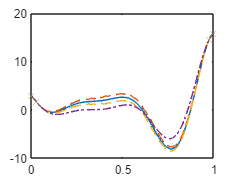
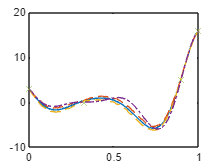
updated markdown files

diff --git a/MatlabGP/docs/TestVGPClass.md b/MatlabGP/docs/TestVGPClass.md
@@ -18,13 +18,14 @@ x1 = lhsdesign(500,1);
 y1 = f1(x1);
 y1 = y1 + normrnd(0,0*y1 + 0.8);
 
-a = Matern52(1,0.2)*EQ(1,0.4).periodic(1,2) + RQ(0.1,0.3);
+ma = means.const(2)+means.linear(6);
+a = kernels.Matern52(1,0.2)*kernels.EQ(1,0.4).periodic(1,2) + kernels.RQ(0.1,0.3);
 ```
 
 ```matlab:Code
 a.signn = 0.5;
 
-Z = VGP([],a,lhsdesign(8,1));
+Z = VGP(ma,a,lhsdesign(15,1));
 ```
 
 ```matlab:Code
@@ -32,12 +33,11 @@ Z1 = Z.condition(x1,y1);
 
 [ys,sig] = Z1.eval(xx);
 
-figure(2)
-clf(2)
-plot(xx,ys)
+figure
 hold on
-% plot(xx,ys+2*sqrt(sig),'--')
-% plot(xx,ys-2*sqrt(sig),'--')
+plot(xx,ys)
+plot(xx,ys+2*sqrt(sig),'--')
+plot(xx,ys-2*sqrt(sig),'--')
 plot(xx,yy,'-.')
 plot(x1,y1,'+')
 ```
@@ -46,27 +46,27 @@ plot(x1,y1,'+')
 
 ```matlab:Code
 tic
-[Z2,LL] = Z1.train(1);
+[Z2,LL] = Z1.train();
 ```
 
 ```text:Output
-Variables (index) internally transformed to log coordinates: [1 2 3 4].
+Variables (index) internally transformed to log coordinates: [3 4 5].
 Beginning optimization of a STOCHASTIC objective fcn.
 
 Optimization terminated: mesh size less than OPTIONS.TolMesh.
-Estimated function value at minimum: 24.6392 +/- 0.605676 (mean +/- SEM from 10 samples).
+Estimated function value at minimum: 25.8595 +/- 0.415588 (mean +/- SEM from 10 samples).
 
-Variables (index) internally transformed to log coordinates: [1 2 3 4].
+Variables (index) internally transformed to log coordinates: [3 4 5].
 Beginning optimization of a STOCHASTIC objective fcn.
 
 Optimization terminated: mesh size less than OPTIONS.TolMesh.
-Estimated function value at minimum: 26.4603 +/- 0.481208 (mean +/- SEM from 10 samples).
+Estimated function value at minimum: 28.8236 +/- 0.988327 (mean +/- SEM from 10 samples).
 
-Variables (index) internally transformed to log coordinates: [1 2 3 4].
+Variables (index) internally transformed to log coordinates: [3 4 5].
 Beginning optimization of a STOCHASTIC objective fcn.
 
 Optimization terminated: mesh size less than OPTIONS.TolMesh.
-Estimated function value at minimum: 27.7985 +/- 1.43034 (mean +/- SEM from 10 samples).
+Estimated function value at minimum: 27.6798 +/- 0.907458 (mean +/- SEM from 10 samples).
 ```
 
 ```matlab:Code
@@ -74,14 +74,13 @@ toc
 ```
 
 ```text:Output
-Elapsed time is 23.725120 seconds.
+Elapsed time is 47.344382 seconds.
 ```
 
 ```matlab:Code
 [ys,sig] = Z2.eval(xx);
 
-figure(3)
-clf(3)
+figure
 plot(xx,ys)
 hold on
 plot(xx,ys+2*sqrt(sig),'--')
@@ -91,18 +90,3 @@ plot(x1,y1,'+')
 ```
 
 ![figure_1.png](TestVGPClass_images/figure_1.png)
-
-```matlab:Code
-figure(4)
-hold on
-for i = 1:30
-    ysamp = Z1.samplePosterior(xx);
-    plot(xx,ysamp,'LineWidth',0.05,'Color','k')
-end
-
-plot(xx,ys)
-plot(xx,ys+2*sqrt(sig),'--')
-plot(xx,ys-2*sqrt(sig),'--')
-```
-
-![figure_2.png](TestVGPClass_images/figure_2.png)

diff --git a/MatlabGP/docs/TestMFGPClass.md b/MatlabGP/docs/TestMFGPClass.md
@@ -19,24 +19,26 @@ x{1} = [0; lhsdesign(2,1);1];
 y{1} = ff{1}(x{1});
 
 for i = 2:3
-x{i} = [x{i-1}; lhsdesign(8,1)];
+x{i} = [x{i-1}; lhsdesign(5,1)];
 y{i} = ff{i}(x{i});
 end
 
-a = Matern52(1,0.2)+RQ(0.1,0.5);
-b = EQ(1,0.3);
+ma = means.linear(4) + means.const(1);
+
+a = kernels.Matern52(1,0.2)+kernels.RQ(0.1,0.5);
+b = kernels.EQ(1,0.3);
 ```
 
 ```matlab:Code
 for i = 1:3
-    Z{i} = GP([],a);
+    Z{i} = GP(ma,a);
     Z{i} = Z{i}|[x{i} y{i}];
     Z{i} = Z{i}.train;
 end
 ```
 
 ```matlab:Code
-MF = MFGP(Z,[],b);
+MF = MFGP(Z,ma,b);
 ```
 
 ```matlab:Code
@@ -68,3 +70,38 @@ plot(x{1},y{1},'x')
 ```
 
 ![figure_1.png](TestMFGPClass_images/figure_1.png)
+
+```matlab:Code
+
+```
+
+```matlab:Code
+ym2 = MF.Zd{2}.mean.eval(xx);
+ym3 = MF.Zd{3}.mean.eval(xx);
+
+figure
+plot(xx,ym2)
+hold on
+plot(xx,ym3)
+```
+
+![figure_2.png](TestMFGPClass_images/figure_2.png)
+
+```matlab:Code
+
+ym1 = MF.GPs{1}.mean.eval(xx);
+ym2 = MF.GPs{2}.mean.eval(xx);
+ym3 = MF.GPs{3}.mean.eval(xx);
+
+figure
+plot(xx,ym1)
+hold on
+plot(xx,ym2)
+plot(xx,ym3)
+```
+
+![figure_3.png](TestMFGPClass_images/figure_3.png)
+
+```matlab:Code
+
+```

diff --git a/MatlabGP/docs/TestMeanClass.md b/MatlabGP/docs/TestMeanClass.md
@@ -1,0 +1,44 @@
+The mean super class allows addition subtraction multiplication and division.
+
+```matlab:Code
+clear all
+close all
+clc
+
+xx = lhsdesign(100,2);
+
+a = means.const(3);
+
+b = means.linear([1 2]);
+
+c = means.linear([-0.1 3]);
+
+d = (c+a)*b*c;
+
+K = d.eval(xx);
+
+figure(1)
+clf(1)
+plot3(xx(:,1),xx(:,2),K,'.')
+```
+
+![figure_0.png](TestMeanClass_images/figure_0.png)
+
+```matlab:Code
+
+```
+
+```matlab:Code
+V = d.getHPs()
+```
+
+```text:Output
+V = 1x7    
+   -0.1000    3.0000    3.0000    1.0000    2.0000   -0.1000    3.0000
+
+```
+
+```matlab:Code
+
+d = d.setHPs(V+1);
+```

diff --git a/MatlabGP/docs/TestGPClass.md b/MatlabGP/docs/TestGPClass.md
@@ -28,14 +28,17 @@ yy = f1(xx);
 
 x1 = [0; 1*lhsdesign(8,1);1];
 y1 = f1(x1);
-
-a = (Matern52(1,0.2) + EQ(0.2,0.4))*RQ(1,0.1);
-
-a.signn = 0.2;
 ```
 
 ```matlab:Code
-Z = GP([],a);
+a = means.const(2) + means.linear(4);
+
+b = (kernels.Matern52(1,0.2) + kernels.EQ(0.2,0.4))*kernels.RQ(1,0.1);
+b.signn = 0.2;
+```
+
+```matlab:Code
+Z = GP(a,b);
 ```
 
 ```matlab:Code
@@ -81,7 +84,7 @@ toc
 ```
 
 ```text:Output
-Elapsed time is 0.593151 seconds.
+Elapsed time is 1.141292 seconds.
 ```
 
 ```matlab:Code

diff --git a/MatlabGP/docs/TestKernClass.md b/MatlabGP/docs/TestKernClass.md
@@ -11,11 +11,11 @@ clc
 
 xx = lhsdesign(100,3);
 
-a = EQ(3,[1 3 2]);
+a = kernels.EQ(3,[1 3 2]);
 
-b = Matern52(2,2);
+b = kernels.Matern52(2,2);
 
-c = RQ(0.1,0.1);
+c = kernels.RQ(0.1,0.1);
 
 d = (c+a)*b;
 
